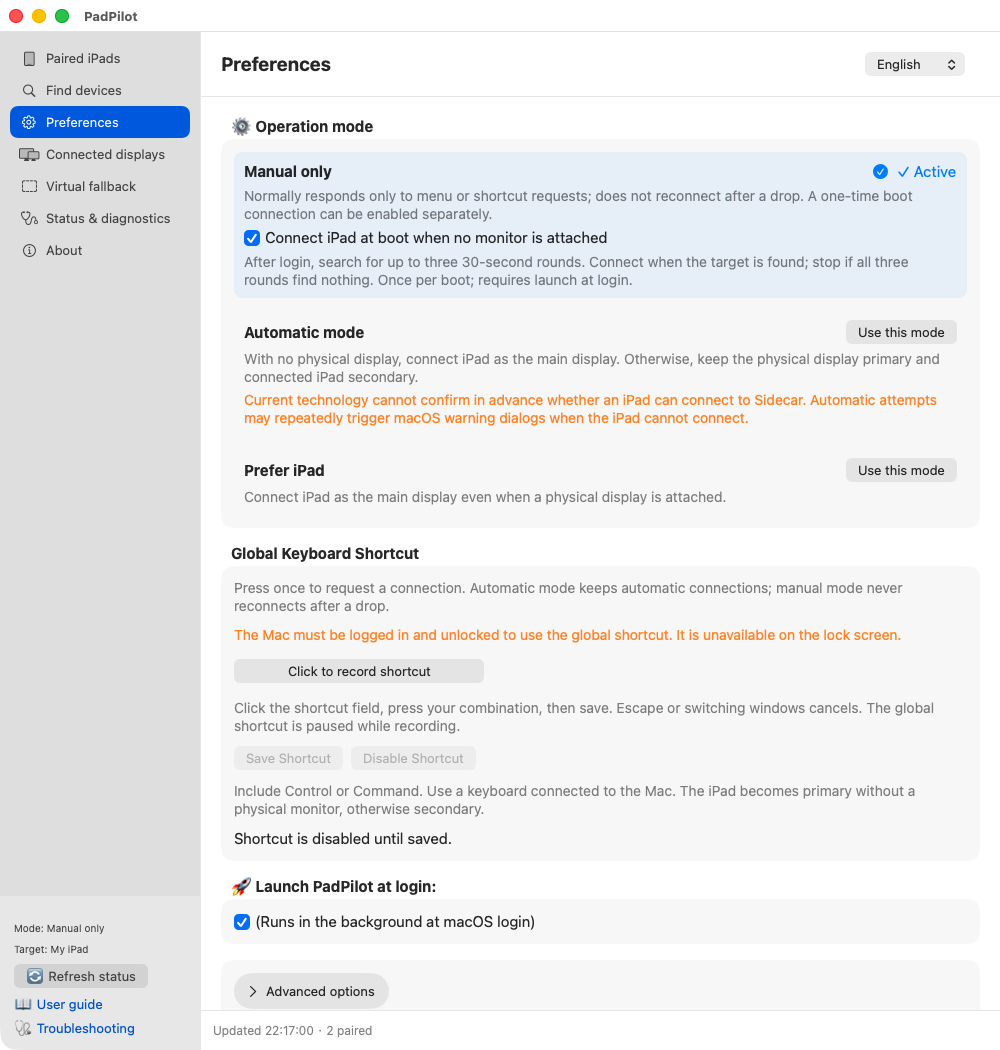
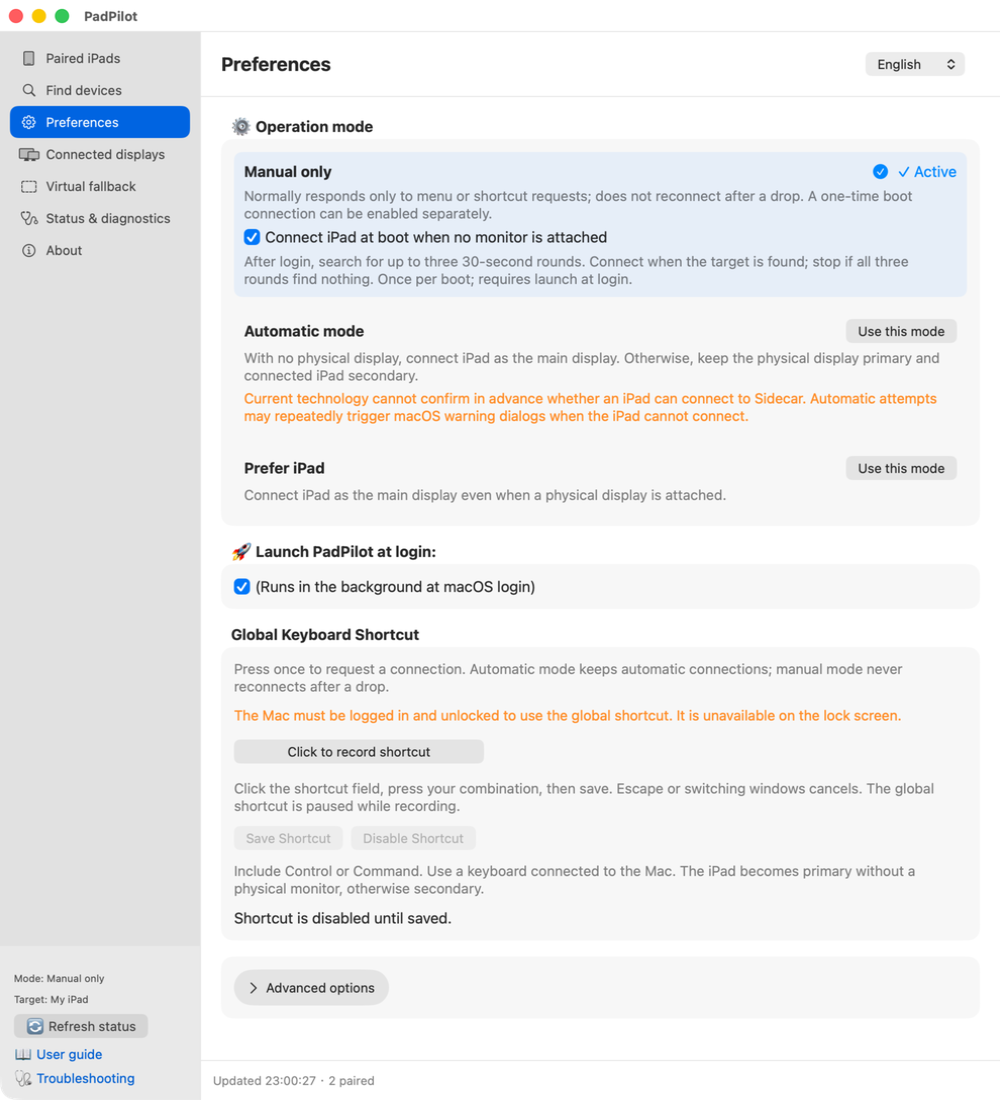
feat: add OPay support option
Add OPay as an optional support method with the project donation destination and member identifier.

Expose the OPay button in the native About view and include its localized branding in the Chinese, English, and Japanese README files.

Refresh the settings screenshots and update native accessibility checks and documentation tests for the additional provider.

Changed region(s): [[0.217, 0.0305, 0.961, 1.0], [0.0, 0.0, 0.186, 0.2438], [0.0, 0.8838, 0.124, 1.0]]

diff --git a/native/Settings.swift b/native/Settings.swift
@@ -551,7 +551,7 @@ final class SettingsWindowController: NSWindowController, NSWindowDelegate {
          "window_number": window?.windowNumber ?? -1, "minimum_size": [window?.minSize.width ?? 0, window?.minSize.height ?? 0],
          "config_revision": model.revision, "language": model.language, "drafts": model.drafts, "draft_revisions": model.draftRevisions,
          "notice": model.notice, "actual": model.actual, "logText": model.logText,
-         "donations": ["PayPal": model.donationEnabled("PayPal"), "Ko-fi": model.donationEnabled("Ko-fi")],
+         "donations": ["PayPal": model.donationEnabled("PayPal"), "Ko-fi": model.donationEnabled("Ko-fi"), "歐付寶2218408": model.donationEnabled("歐付寶2218408")],
          "version": model.data.text("version"), "license": "PolyForm Noncommercial 1.0.0 · © 2026 kcayut",
          "commands": model.recordedCommands, "pages": settingsPages.map { $0.0 },
          "strings": model.data["strings"] ?? [:], "profiles": model.profiles]
@@ -1193,7 +1193,7 @@ private struct SettingsAboutView: View {
         SettingsCard(title: model.tr("支持 PadPilot")) {
             Text(model.tr("PadPilot 目前所有功能皆可免費使用。如果你喜歡這個軟體，歡迎支持開發，謝謝！")).foregroundStyle(.secondary)
             HStack {
-                ForEach(["PayPal", "Ko-fi"], id: \.self) { name in
+                ForEach(["PayPal", "Ko-fi", "歐付寶2218408"], id: \.self) { name in
                     Button(name) { model.open(model.data.object("donations").text(name)) }
                         .disabled(!model.donationEnabled(name))
                 }

diff --git a/native/SettingsChecks.swift b/native/SettingsChecks.swift
@@ -220,7 +220,7 @@ private func mutations(_ controller: SettingsWindowController) -> [CheckObject] 
                 }
             }
             if language == "en" {
-                for node in nodes where !["繁體中文", "日本語"].contains(node.label) {
+                for node in nodes where !["繁體中文", "日本語", "歐付寶2218408"].contains(node.label) {
                     try require(!node.label.unicodeScalars.contains { (0x4e00...0x9fff).contains($0.value) }, "Untranslated native text: \(page)/\(node.label)")
                 }
             }
@@ -232,7 +232,7 @@ private func mutations(_ controller: SettingsWindowController) -> [CheckObject] 
                             "Native control overflows window: \(language)/\(page)/\(node.label)")
             }
             if page == "about" {
-                for name in ["PayPal", "Ko-fi"] {
+                for name in ["PayPal", "Ko-fi", "歐付寶2218408"] {
                     let buttons = nodes.filter { $0.role == "AXButton" && $0.label == name }
                     try require(!buttons.isEmpty && buttons.allSatisfy { $0.enabled }, "Configured \(name) donation link must be enabled")
                 }

diff --git a/tests/test_documentation.py b/tests/test_documentation.py
@@ -93,6 +93,7 @@ class DocumentationTests(unittest.TestCase):
                 self.assertEqual(original['donations'], {
                     'PayPal': 'https://www.paypal.com/paypalme/oilstuck',
                     'Ko-fi': 'https://ko-fi.com/kcayut',
+                    '歐付寶2218408': 'https://payment.opay.tw/Broadcaster/Donate/6CF8CF9E519E0ED13E244399607ADDD7',
                 })
                 for language, suffix in [('zh-Hant', ''), ('en', '.en'), ('ja', '.ja')]:
                     view['config'].language = language

diff --git a/core/gui.py b/core/gui.py
@@ -24,6 +24,7 @@ GITHUB_URL = 'https://github.com/kcayut/PadPilot'
 DONATION_URLS = {
     'PayPal': 'https://www.paypal.com/paypalme/oilstuck',
     'Ko-fi': 'https://ko-fi.com/kcayut',
+    '歐付寶2218408': 'https://payment.opay.tw/Broadcaster/Donate/6CF8CF9E519E0ED13E244399607ADDD7',
 }
 
 GREEN = '#34c759'

diff --git a/README.en.md b/README.en.md
@@ -177,7 +177,7 @@ Run these from any directory. If `~/bin` is on your PATH, you can also use `padp
 
 Release updates: quit PadPilot, then replace the app at the same location or rerun the release installer. Settings are preserved; choose Python when using the installer. Before changing locations, uninstall the old copy while keeping settings. The following rebuild instructions apply only to source installations.
 
-Keep a backup of the prior source, save and close settings, then update the source and rerun `./scripts/install.sh --check`, `./scripts/install.sh`, and `python3 bin/padpilot-cli status` (using the Python selected during installation). This also rebuilds the native app. Updates keep the existing app location; a new source installation defaults to `~/Applications/PadPilot.app`. The GUI About page, CLI `--version`, and app share one version source. About also includes GitHub, PayPal, and Ko-fi support links. The old app is recoverable from Trash, but restoring the app alone does not restore its referenced source.
+Keep a backup of the prior source, save and close settings, then update the source and rerun `./scripts/install.sh --check`, `./scripts/install.sh`, and `python3 bin/padpilot-cli status` (using the Python selected during installation). This also rebuilds the native app. Updates keep the existing app location; a new source installation defaults to `~/Applications/PadPilot.app`. The GUI About page, CLI `--version`, and app share one version source. About also includes GitHub, PayPal, Ko-fi, and O’Pay support links. The old app is recoverable from Trash, but restoring the app alone does not restore its referenced source.
 
 </details>
 
@@ -206,7 +206,7 @@ The README and user guides under `docs/` are available in Traditional Chinese, E
 
 All PadPilot features are currently free. If you enjoy the app, you're welcome to support its development. Thank you!
 
-<!-- Brand assets: https://www.paypalobjects.com/paypal-ui/logos/svg/paypal-mark-color.svg | https://storage.ko-fi.com/cdn/cup-border.png -->
+<!-- Brand assets: https://www.paypalobjects.com/paypal-ui/logos/svg/paypal-mark-color.svg | https://storage.ko-fi.com/cdn/cup-border.png | O’Pay logo supplied by the project owner -->
 <table>
   <tr>
     <td align="center" width="160">
@@ -220,6 +220,13 @@ All PadPilot features are currently free. If you enjoy the app, you're welcome t
         <img src="docs/images/support/ko-fi.png" height="48" alt="Support development via Ko-fi"><br>
         <strong>Ko-fi</strong>
       </a>
+    </td>
+    <td align="center" width="220">
+      <a href="https://payment.opay.tw/Broadcaster/Donate/6CF8CF9E519E0ED13E244399607ADDD7">
+        <img src="docs/images/support/opay.png" height="48" alt="Support development via O’Pay"><br>
+        <strong>O’Pay (歐付寶)</strong>
+      </a><br>
+      O’Pay member ID: 2218408
     </td>
   </tr>
 </table>
